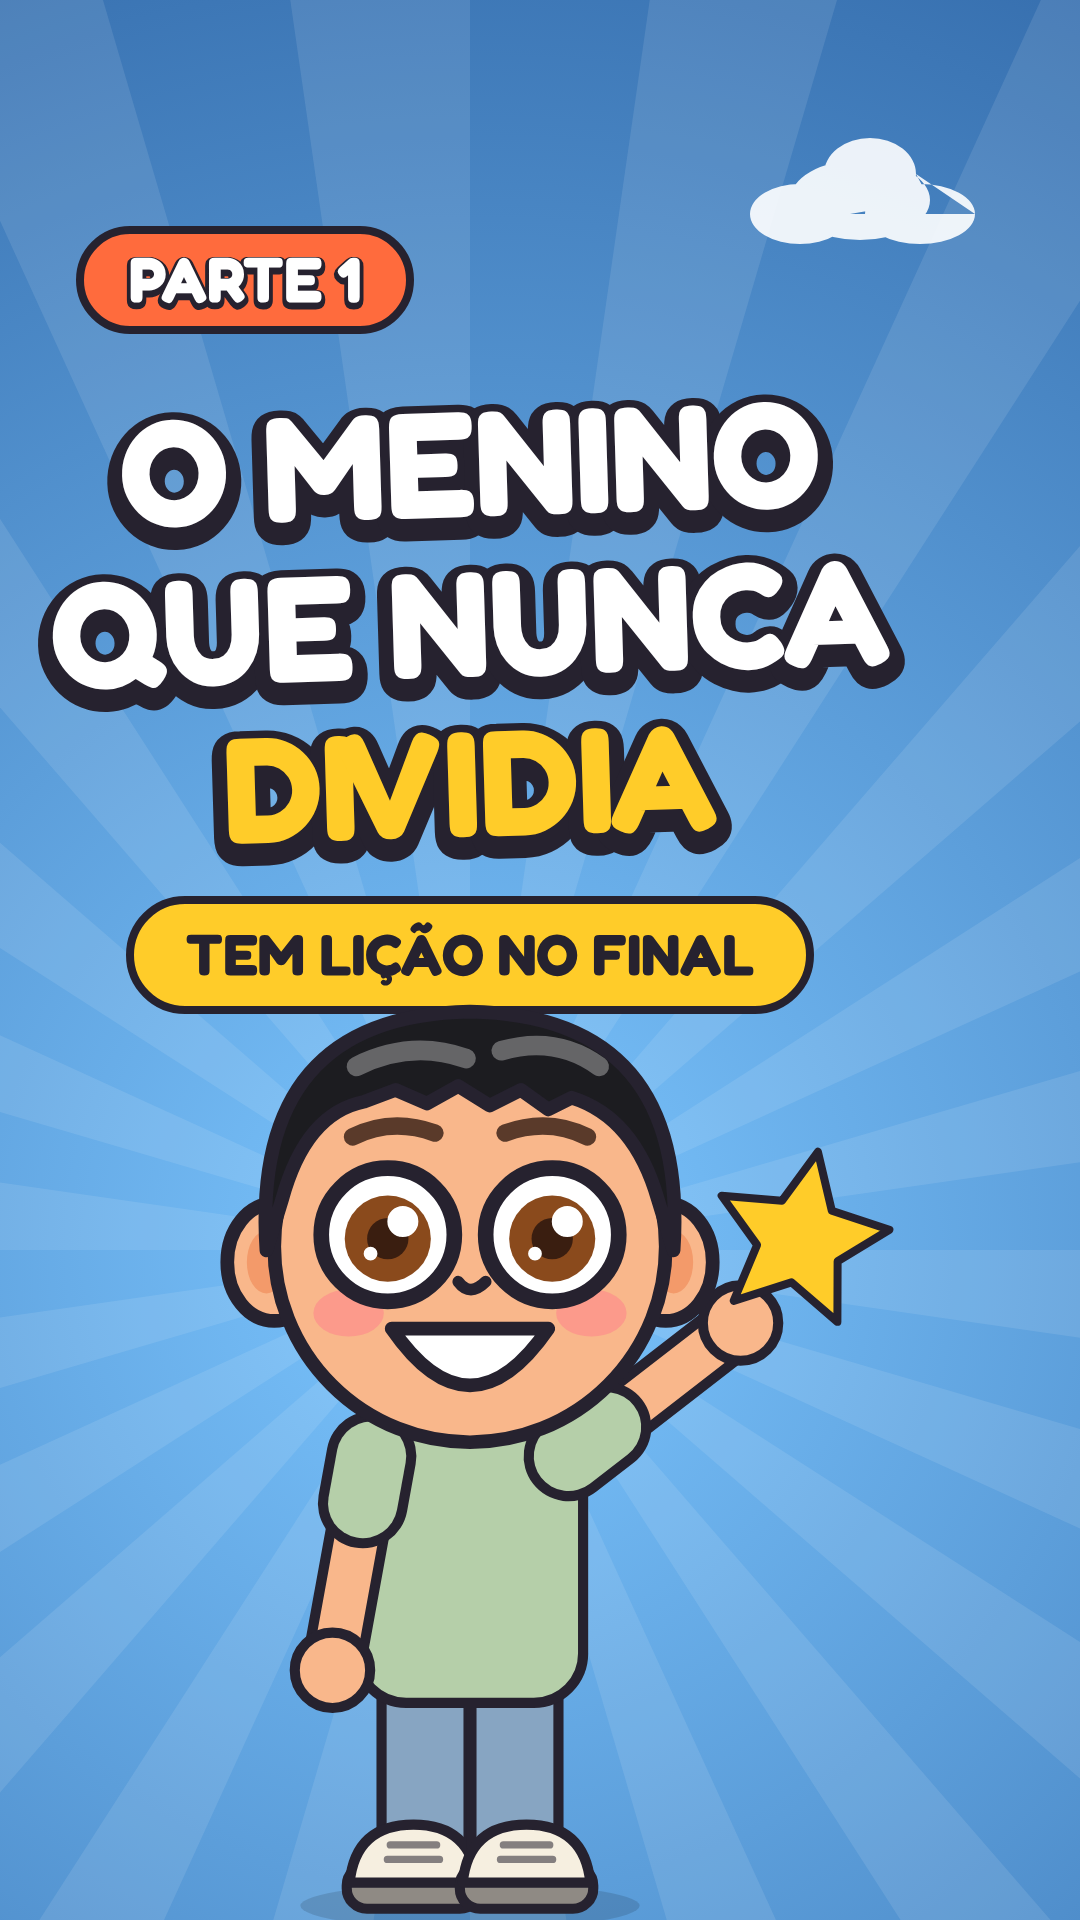
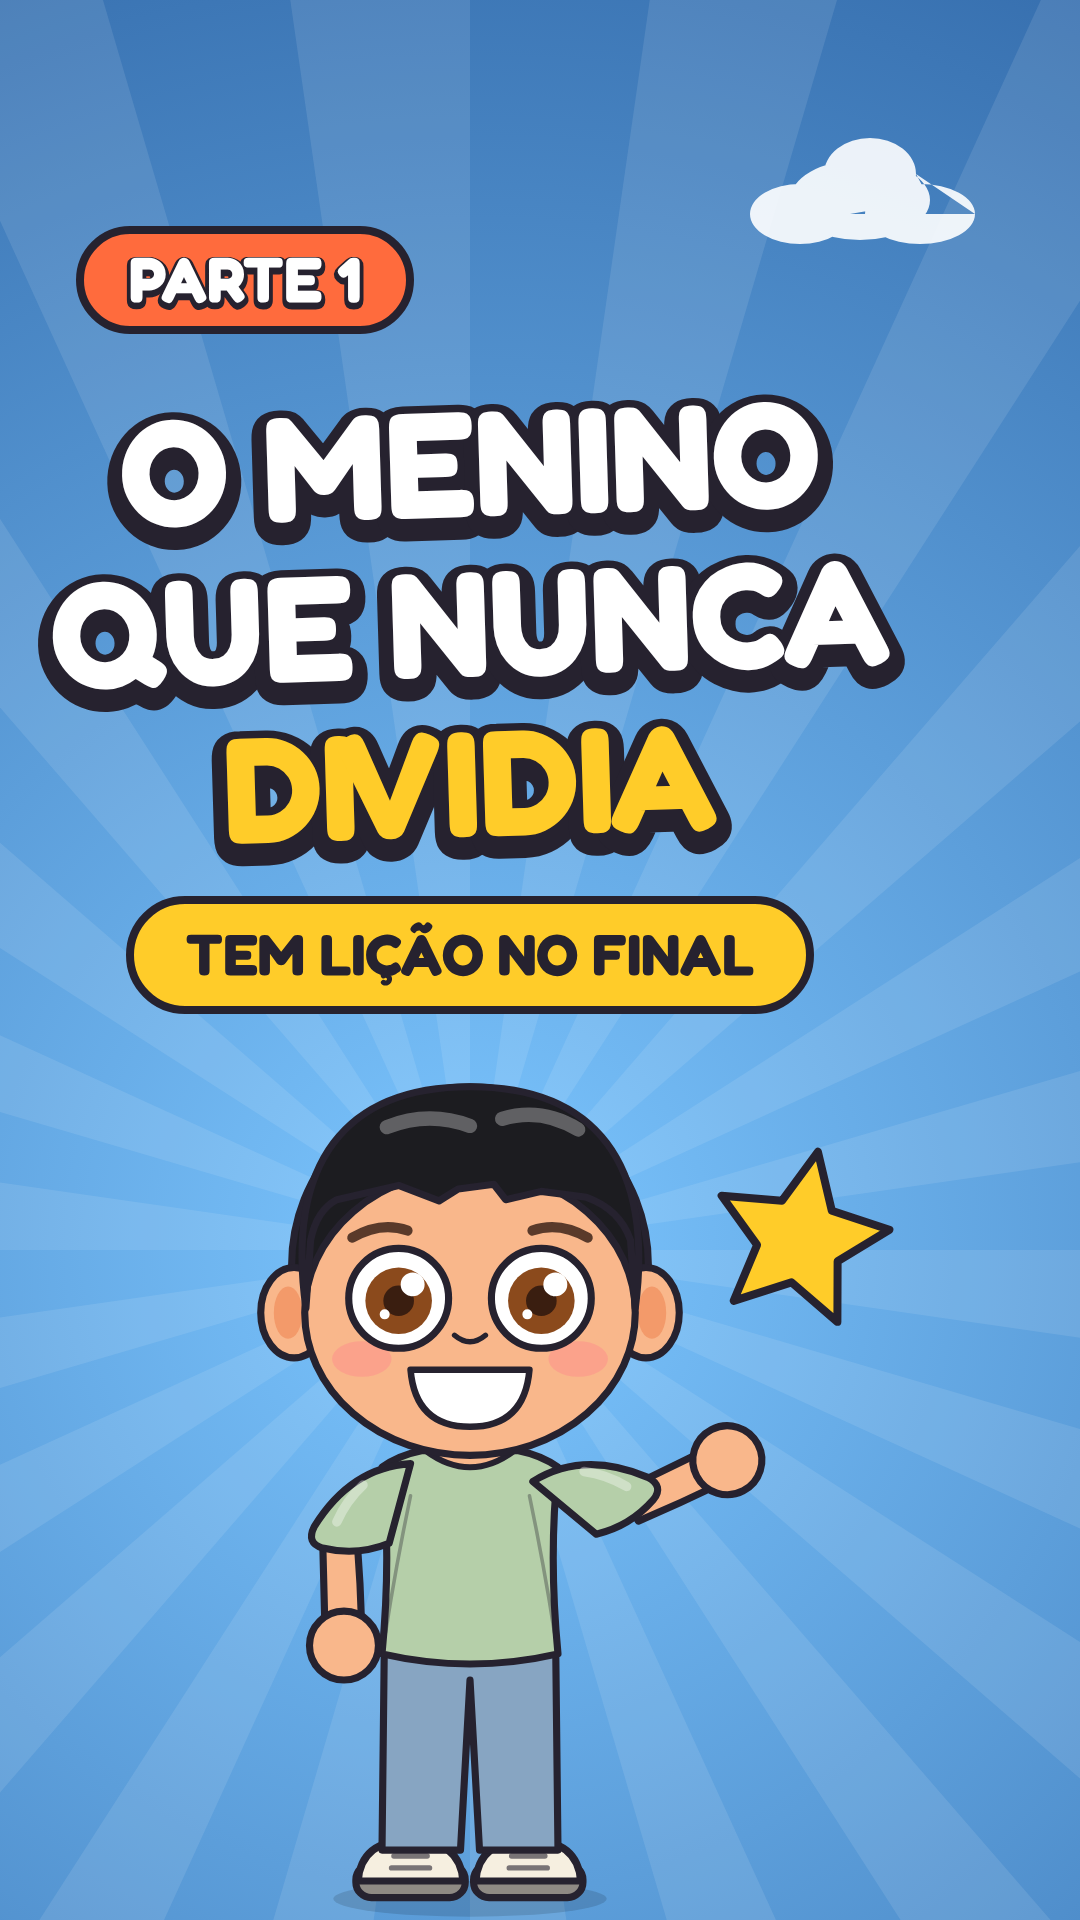
New profile picture: Luquinhas winking with peace sign
Claude-Session: https://claude.ai/code/session_01EjseYyHodshHVuN5bkj3fj

Changed region(s): [[0.1833, 0.5, 0.7333, 1.0]]

diff --git a/episodios/ep01-nariz-azul/common.js b/episodios/ep01-nariz-azul/common.js
@@ -322,7 +322,7 @@ function drawLuq(p) {
   // pants
   S(jeans, () => { ctx.moveTo(376, 1000); ctx.lineTo(664, 1000); ctx.lineTo(668, 1356); ctx.lineTo(536, 1356); ctx.lineTo(520, 1070); ctx.lineTo(504, 1356); ctx.lineTo(372, 1356); ctx.closePath(); });
   // arms + sleeves (behind torso edges)
-  const arm = (side, ang) => {
+  const arm = (side, ang, peace) => {
     ctx.save();
     ctx.translate(520 + side * 150, 712); ctx.scale(side, 1); // side -1 = left (mirror so local -x is outward)
     ctx.scale(-1, 1); // local: outward = -x
@@ -330,7 +330,17 @@ function drawLuq(p) {
     // skin arm, hinged at the sleeve opening
     ctx.save(); ctx.translate(-66, 126); ctx.rotate(ang * 0.7);
     S(skin, () => { ctx.moveTo(-32, -10); ctx.quadraticCurveTo(-30, 72, -28, 146); ctx.lineTo(34, 146); ctx.quadraticCurveTo(32, 72, 26, -6); ctx.closePath(); });
+    if (peace) {
+      // two fingers in a V, pointing along the arm
+      for (const [x1, x2] of [[-16, -44], [16, 40]]) {
+        ctx.lineCap = 'round';
+        ctx.beginPath(); ctx.moveTo(x1, 190); ctx.lineTo(x2, 292);
+        ctx.lineWidth = 34 + OL * 2; ctx.strokeStyle = INK; ctx.stroke();
+        ctx.lineWidth = 34; ctx.strokeStyle = skin; ctx.stroke();
+      }
+    }
     S(skin, ell(4, 174, 58, 58));
+    if (peace) { ctx.strokeStyle = 'rgba(38,34,47,0.6)'; ctx.lineWidth = 8; ctx.beginPath(); ctx.moveTo(-30, 150); ctx.quadraticCurveTo(4, 140, 36, 152); ctx.stroke(); }
     ctx.restore();
     // sleeve
     S(shirt, () => { ctx.moveTo(50, -6); ctx.quadraticCurveTo(-50, 0, -112, 100); ctx.quadraticCurveTo(-126, 128, -98, 136); ctx.quadraticCurveTo(-40, 150, 14, 128); ctx.closePath(); });
@@ -347,7 +357,7 @@ function drawLuq(p) {
   ctx.strokeStyle = 'rgba(38,34,47,0.35)'; ctx.lineWidth = 6;
   ctx.beginPath(); ctx.moveTo(420, 760); ctx.quadraticCurveTo(395, 880, 378, 990); ctx.moveTo(620, 760); ctx.quadraticCurveTo(645, 880, 662, 990); ctx.stroke();
   arm(-1, p.armL || 0);
-  arm(1, p.armR || 0);
+  arm(1, p.armR || 0, p.peaceR);
   // collar
   S(skin, () => { ctx.moveTo(445, 684); ctx.quadraticCurveTo(520, 740, 595, 684); ctx.closePath(); }, 10);
   // head
@@ -385,8 +395,8 @@ function drawLuq(p) {
   const lk = (p.look || 0) * 16;
   for (const sx of [-1, 1]) {
     const cx = 520 + sx * 120, cy = 428;
-    if (p.blink) {
-      ctx.strokeStyle = INK; ctx.lineWidth = 12; ctx.beginPath(); ctx.moveTo(cx - 60, cy); ctx.quadraticCurveTo(cx, cy + 34, cx + 60, cy); ctx.stroke();
+    if (p.blink || (p.wink && sx === 1)) {
+      ctx.strokeStyle = INK; ctx.lineWidth = 12; ctx.beginPath(); if (p.wink && !p.blink) { ctx.moveTo(cx - 58, cy + 10); ctx.quadraticCurveTo(cx, cy - 40, cx + 58, cy + 10); } else { ctx.moveTo(cx - 60, cy); ctx.quadraticCurveTo(cx, cy + 34, cx + 60, cy); } ctx.stroke();
       continue;
     }
     S('#ffffff', ell(cx, cy, 84, 84));

diff --git a/identidade/common.js b/identidade/common.js
@@ -322,7 +322,7 @@ function drawLuq(p) {
   // pants
   S(jeans, () => { ctx.moveTo(376, 1000); ctx.lineTo(664, 1000); ctx.lineTo(668, 1356); ctx.lineTo(536, 1356); ctx.lineTo(520, 1070); ctx.lineTo(504, 1356); ctx.lineTo(372, 1356); ctx.closePath(); });
   // arms + sleeves (behind torso edges)
-  const arm = (side, ang) => {
+  const arm = (side, ang, peace) => {
     ctx.save();
     ctx.translate(520 + side * 150, 712); ctx.scale(side, 1); // side -1 = left (mirror so local -x is outward)
     ctx.scale(-1, 1); // local: outward = -x
@@ -330,7 +330,17 @@ function drawLuq(p) {
     // skin arm, hinged at the sleeve opening
     ctx.save(); ctx.translate(-66, 126); ctx.rotate(ang * 0.7);
     S(skin, () => { ctx.moveTo(-32, -10); ctx.quadraticCurveTo(-30, 72, -28, 146); ctx.lineTo(34, 146); ctx.quadraticCurveTo(32, 72, 26, -6); ctx.closePath(); });
+    if (peace) {
+      // two fingers in a V, pointing along the arm
+      for (const [x1, x2] of [[-16, -44], [16, 40]]) {
+        ctx.lineCap = 'round';
+        ctx.beginPath(); ctx.moveTo(x1, 190); ctx.lineTo(x2, 292);
+        ctx.lineWidth = 34 + OL * 2; ctx.strokeStyle = INK; ctx.stroke();
+        ctx.lineWidth = 34; ctx.strokeStyle = skin; ctx.stroke();
+      }
+    }
     S(skin, ell(4, 174, 58, 58));
+    if (peace) { ctx.strokeStyle = 'rgba(38,34,47,0.6)'; ctx.lineWidth = 8; ctx.beginPath(); ctx.moveTo(-30, 150); ctx.quadraticCurveTo(4, 140, 36, 152); ctx.stroke(); }
     ctx.restore();
     // sleeve
     S(shirt, () => { ctx.moveTo(50, -6); ctx.quadraticCurveTo(-50, 0, -112, 100); ctx.quadraticCurveTo(-126, 128, -98, 136); ctx.quadraticCurveTo(-40, 150, 14, 128); ctx.closePath(); });
@@ -347,7 +357,7 @@ function drawLuq(p) {
   ctx.strokeStyle = 'rgba(38,34,47,0.35)'; ctx.lineWidth = 6;
   ctx.beginPath(); ctx.moveTo(420, 760); ctx.quadraticCurveTo(395, 880, 378, 990); ctx.moveTo(620, 760); ctx.quadraticCurveTo(645, 880, 662, 990); ctx.stroke();
   arm(-1, p.armL || 0);
-  arm(1, p.armR || 0);
+  arm(1, p.armR || 0, p.peaceR);
   // collar
   S(skin, () => { ctx.moveTo(445, 684); ctx.quadraticCurveTo(520, 740, 595, 684); ctx.closePath(); }, 10);
   // head
@@ -385,8 +395,8 @@ function drawLuq(p) {
   const lk = (p.look || 0) * 16;
   for (const sx of [-1, 1]) {
     const cx = 520 + sx * 120, cy = 428;
-    if (p.blink) {
-      ctx.strokeStyle = INK; ctx.lineWidth = 12; ctx.beginPath(); ctx.moveTo(cx - 60, cy); ctx.quadraticCurveTo(cx, cy + 34, cx + 60, cy); ctx.stroke();
+    if (p.blink || (p.wink && sx === 1)) {
+      ctx.strokeStyle = INK; ctx.lineWidth = 12; ctx.beginPath(); if (p.wink && !p.blink) { ctx.moveTo(cx - 58, cy + 10); ctx.quadraticCurveTo(cx, cy - 40, cx + 58, cy + 10); } else { ctx.moveTo(cx - 60, cy); ctx.quadraticCurveTo(cx, cy + 34, cx + 60, cy); } ctx.stroke();
       continue;
     }
     S('#ffffff', ell(cx, cy, 84, 84));

diff --git a/identidade/luquinhas.html b/identidade/luquinhas.html
@@ -46,8 +46,8 @@ function drawAll() {
     const c = mk(1080, 1080);
     rays(540, 560, 1080, 1080, '#7cc6ff', P.deep, 20);
     cloud(190, 230, 1.1); cloud(930, 330, 0.8);
-    person({ ...LUQ, x: 540, y: 1560, s: 2.2, expr: 'grin', armL: 0, armR: 2.05, look: 0 });
-    star(880, 190, 95, P.yellow, 5, 0.2);
+    person({ ...LUQ, x: 470, y: 1640, s: 2.4, expr: 'grin', armL: 0, armR: 2.62, peaceR: true, wink: true, look: 0 });
+    star(860, 210, 85, P.yellow, 5, 0.2);
     out.avatar = c;
   })();
   // 2) Logo transparent
